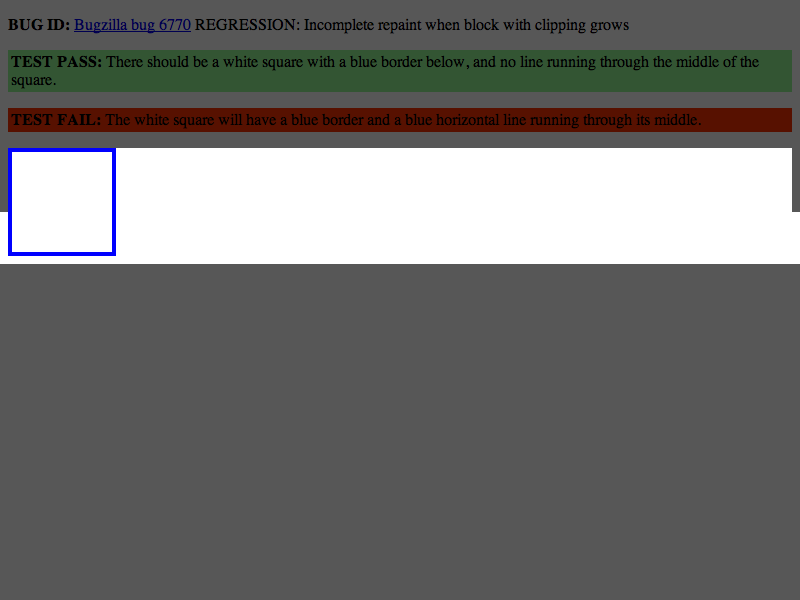
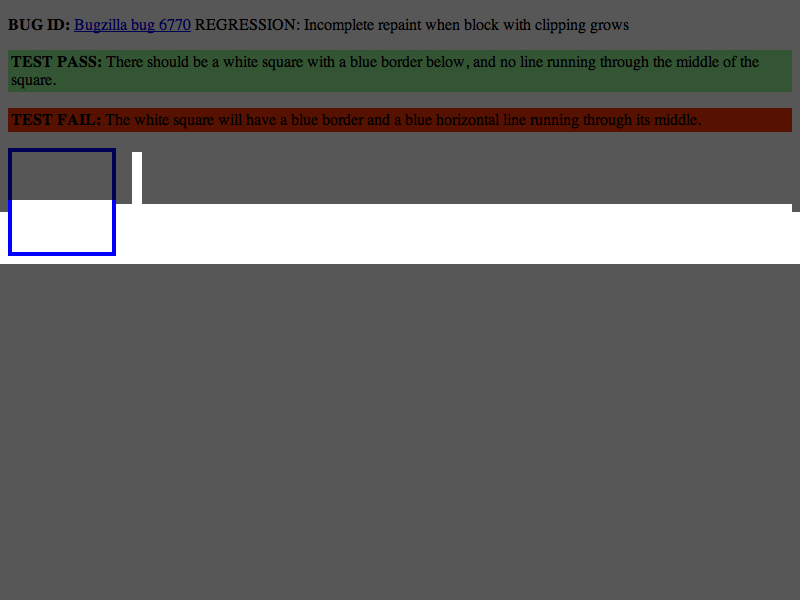
LayoutTests:
Reviewed by Darin.

        - repaint test and updated results for http://bugs.webkit.org/show_bug.cgi?id=13655
          Incomplete repaint when text-shadow is used in a render layer with explicit height

        * fast/repaint/layer-full-repaint-expected.checksum: Added.
        * fast/repaint/layer-full-repaint-expected.png: Added.
        * fast/repaint/layer-full-repaint-expected.txt: Added.
        * fast/repaint/layer-full-repaint.html: Added.
        * fast/repaint/repaint-resized-overflow-expected.checksum:
        * fast/repaint/repaint-resized-overflow-expected.png:

WebCore:

        Reviewed by Darin.

        - fix http://bugs.webkit.org/show_bug.cgi?id=13655
          Incomplete repaint when text-shadow is used in a render layer with explicit height

        Test: fast/repaint/layer-full-repaint.html

        Removed custom repaint logic from RenderLayer. repaintAfterLayoutIfNeeded()
        knows how to do everything we need now. The only catch is that we cannot
        rely on its "do a full repaint if the object needs layout" behavior, since
        by the time we call it, the needs layout flag has been reset. The solution
        is to cache the need for a full repaint in the layer.

        * page/FrameView.cpp:
        (WebCore::FrameView::layout): Removed call to checkForRepaintOnResize().
        * rendering/RenderLayer.cpp:
        (WebCore::RenderLayer::checkForRepaintOnResize): Removed.
[…]

Changed region(s): [[0.0, 0.24, 1.0, 0.36]]

diff --git a/LayoutTests/fast/repaint/layer-full-repaint.html b/LayoutTests/fast/repaint/layer-full-repaint.html
@@ -1,0 +1,29 @@
+<!DOCTYPE html PUBLIC "-//W3C//DTD XHTML 1.0 Strict//EN" "http://www.w3.org/TR/xhtml1/DTD/xhtml1-strict.dtd">
+<html xmlns="http://www.w3.org/1999/xhtml" xml:lang="en" lang="en">
+<head>
+    <title>Test for http://bugs.webkit.org/show_bug.cgi?id=13655</title>
+    <style type="text/css">
+        div {
+            position: relative;
+            height: 100px;
+            width: 100px;
+            background-color: red;
+        }
+        
+        div.selected {
+            background-color: green;
+            text-shadow: red 5px 5px 0;
+        }
+    </style>
+    <script src="repaint.js" type="text/javascript"></script>
+    <script>
+        function repaintTest()
+        {
+           document.getElementById('test').className = "selected";
+        }
+    </script>
+</head>
+<body onload="runRepaintTest();">
+        <div id="test"></div>
+</body>
+</html>

diff --git a/WebCore/rendering/RenderLayer.cpp b/WebCore/rendering/RenderLayer.cpp
@@ -141,7 +141,7 @@ RenderLayer::RenderLayer(RenderObject* object)
     , m_isOverflowOnly(shouldBeOverflowOnly())
     , m_usedTransparency(false)
     , m_inOverflowRelayout(false)
-    , m_repaintOverflowOnResize(false)
+    , m_needsFullRepaint(false)
     , m_overflowStatusDirty(true)
     , m_visibleContentStatusDirty(true)
     , m_hasVisibleContent(false)
@@ -174,15 +174,6 @@ RenderLayer::~RenderLayer()
     ASSERT(!m_clipRects);
 }
 
-void RenderLayer::checkForRepaintOnResize()
-{
-    // FIXME: The second part of the condition is probably no longer needed. The first part can be
-    // done when the object is marked for layout instead of walking the tree here.
-    m_repaintOverflowOnResize = m_object->selfNeedsLayout() || m_object->hasOverflowClip() && m_object->normalChildNeedsLayout();
-    for (RenderLayer* child = firstChild(); child; child = child->nextSibling())
-        child->checkForRepaintOnResize();
-}
-
 void RenderLayer::updateLayerPositions(bool doFullRepaint, bool checkForRepaint)
 {
     if (doFullRepaint) {
@@ -209,13 +200,12 @@ void RenderLayer::updateLayerPositions(bool doFullRepaint, bool checkForRepaint)
         IntRect newOutlineBox = m_object->absoluteOutlineBox();
         if (checkForRepaint) {
             if (view && !view->printing()) {
-                bool didMove = newOutlineBox.location() != m_outlineBox.location();
-                if (!didMove && !m_repaintOverflowOnResize)
-                    m_object->repaintAfterLayoutIfNeeded(m_repaintRect, m_outlineBox);
-                else if (didMove || newRect != m_repaintRect) {
+                if (m_needsFullRepaint) {
                     view->repaintViewRectangle(m_repaintRect);
-                    view->repaintViewRectangle(newRect);
-                }
+                    if (newRect != m_repaintRect)
+                        view->repaintViewRectangle(newRect);
+                } else
+                    m_object->repaintAfterLayoutIfNeeded(m_repaintRect, m_outlineBox);
             }
         }
         m_repaintRect = newRect;
@@ -224,6 +214,8 @@ void RenderLayer::updateLayerPositions(bool doFullRepaint, bool checkForRepaint)
         m_repaintRect = IntRect();
         m_outlineBox = IntRect();
     }
+
+    m_needsFullRepaint = false;
     
     for (RenderLayer* child = firstChild(); child; child = child->nextSibling())
         child->updateLayerPositions(doFullRepaint, checkForRepaint);

diff --git a/WebCore/rendering/RenderLayer.h b/WebCore/rendering/RenderLayer.h
@@ -280,7 +280,6 @@ public:
     
     void updateLayerPosition();
     void updateLayerPositions(bool doFullRepaint = false, bool checkForRepaint = true);
-    void checkForRepaintOnResize();
 
     void relativePositionOffset(int& relX, int& relY) { relX += m_relX; relY += m_relY; }
 
@@ -339,6 +338,7 @@ public:
     void updateHoverActiveState(const HitTestRequest&, HitTestResult&);
 
     IntRect repaintRect() const { return m_repaintRect; }
+    void setNeedsFullRepaint(bool f = true) { m_needsFullRepaint = f; }
     
     int staticX() const { return m_staticX; }
     int staticY() const { return m_staticY; }
@@ -447,7 +447,7 @@ protected:
                                  // we ended up painting this layer or any descendants (and therefore need to
                                  // blend).
     bool m_inOverflowRelayout : 1;
-    bool m_repaintOverflowOnResize : 1;
+    bool m_needsFullRepaint : 1;
 
     bool m_overflowStatusDirty : 1;
     bool m_horizontalOverflow : 1;

diff --git a/WebCore/rendering/RenderObject.cpp b/WebCore/rendering/RenderObject.cpp
@@ -684,8 +684,12 @@ void RenderObject::setNeedsLayout(bool b, bool markParents)
     bool alreadyNeededLayout = m_needsLayout;
     m_needsLayout = b;
     if (b) {
-        if (!alreadyNeededLayout && markParents)
-            markContainingBlocksForLayout();
+        if (!alreadyNeededLayout) {
+            if (markParents)
+                markContainingBlocksForLayout();
+            if (hasLayer())
+                layer()->setNeedsFullRepaint();
+        }
     } else {
         m_posChildNeedsLayout = false;
         m_normalChildNeedsLayout = false;

diff --git a/WebCore/page/FrameView.cpp b/WebCore/page/FrameView.cpp
@@ -405,9 +405,6 @@ void FrameView::layout(bool allowSubtree)
     
     RenderLayer* layer = root->enclosingLayer();
      
-    if (!d->doFullRepaint)
-        layer->checkForRepaintOnResize();
-
     pauseScheduledEvents();
 
     if (subtree)
